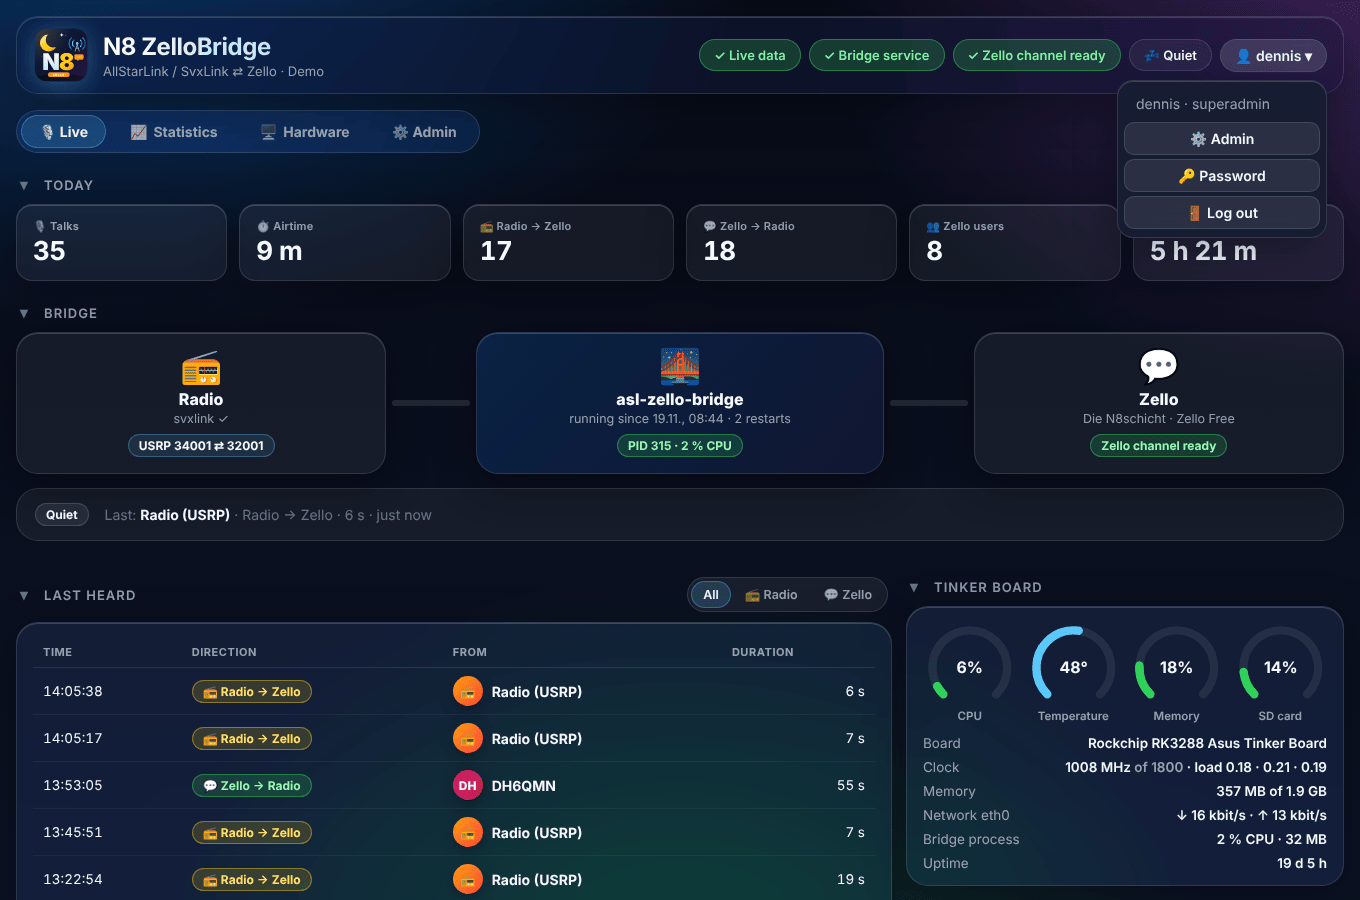
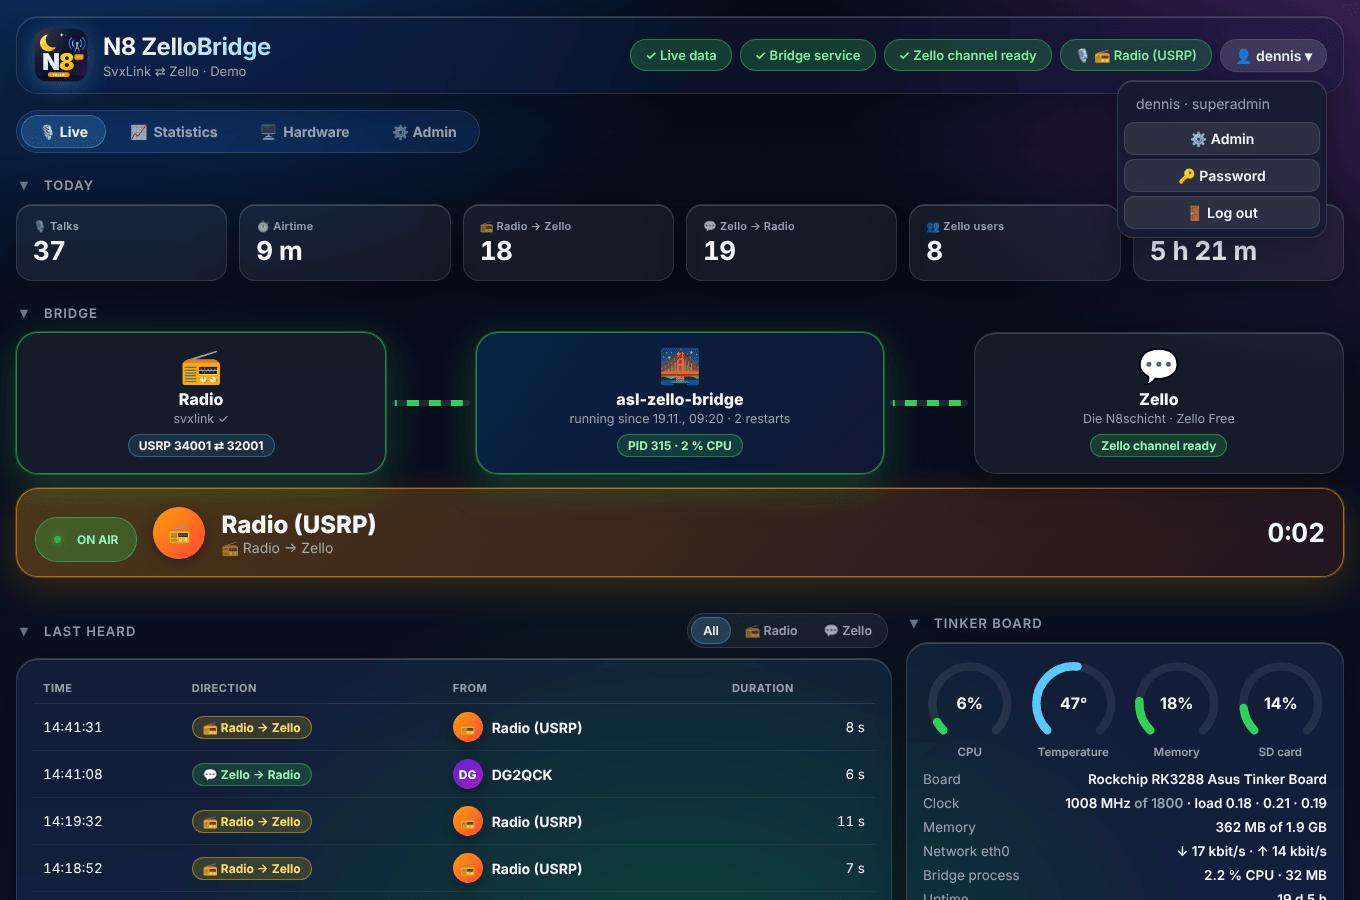
zellobridge: Asterisk/AllStarLink entfernt – nur SvxLink ⇄ Zello
- keine Suche mehr nach asterisk-/analog_bridge-/allmon-Diensten (Dashboard und Installer)
- Untertitel, Texte und Doku auf SvxLink ⇄ Zello umgestellt
- Screenshots neu

Claude-Session: https://claude.ai/code/session_01J5RG2ng91A3UchVF3CB2i8

diff --git a/zellobridge/static/app.js b/zellobridge/static/app.js
@@ -177,7 +177,7 @@ function renderFlow() {
     const L = S.live, b = L.bridge, sv = bridgeSvc(), c = L.config || {}, t = b.talk;
     const up = sv.active === 'active', zok = ['ready', 'online'].includes(b.zello);
     const extra = (L.services || []).filter(s => !s.bridge);
-    const radioSub = extra.length ? extra.map(s => `${esc(s.unit)} ${s.active === 'active' ? '✓' : '✕'}`).join(' · ') : 'AllStarLink / SvxLink';
+    const radioSub = extra.length ? extra.map(s => `${esc(s.unit)} ${s.active === 'active' ? '✓' : '✕'}`).join(' · ') : 'SvxLink';
     const z = ZST[b.zello] || ZST.unknown;
     $('flow').innerHTML = `
         <div class="node ${t && t.dir === 'rf' ? 'hot' : ''}"><div class="ic">📻</div><div class="t">Radio</div><div class="s">${radioSub}</div>

diff --git a/zellobridge/n8zello/settings.py b/zellobridge/n8zello/settings.py
@@ -36,14 +36,14 @@ SECTIONS = [
 
 FIELDS: List[Field] = [
     Field("dashboard.title", "dashboard", "Title", "text", "N8 ZelloBridge"),
-    Field("dashboard.subtitle", "dashboard", "Subtitle", "text", "AllStarLink / SvxLink ⇄ Zello"),
+    Field("dashboard.subtitle", "dashboard", "Subtitle", "text", "SvxLink ⇄ Zello"),
     Field("dashboard.public", "dashboard", "Public view", "bool", True, "On: everybody in the network sees the dashboard without login"),
     Field("dashboard.show_users", "dashboard", "Show Zello user names publicly", "bool", True),
     Field("dashboard.session_hours", "dashboard", "Login valid for (hours)", "int", 12, min=1, max=720),
     Field("bridge.service", "bridge", "Bridge service", "text", "asl-zello-bridge", "systemd unit of the bridge",
           pattern=r"[A-Za-z0-9@._-]+"),
     Field("bridge.extra", "bridge", "Further services", "text", "auto",
-          "Comma separated, e.g. svxlink, asterisk. auto = every svxlink/asterisk/usrp service found", pattern=r"[A-Za-z0-9@._, -]*"),
+          "Comma separated, e.g. svxlink. auto = every SvxLink/USRP service found", pattern=r"[A-Za-z0-9@._, -]*"),
     Field("bridge.iface", "bridge", "Network interface", "text", "auto", "For the traffic graph; auto = the one with the default route",
           pattern=r"[A-Za-z0-9._-]+"),
     Field("data.talk_days", "data", "Keep talks (days)", "int", 400, min=7, max=3650),

diff --git a/zellobridge/n8zello/system.py b/zellobridge/n8zello/system.py
@@ -211,7 +211,7 @@ class Services:
         for line in out.splitlines():
             name = line.split()[0] if line.split() else ""
             base = name.removesuffix(".service")
-            if base != bridge and any(k in base.lower() for k in ("svxlink", "asterisk", "usrp", "analog_bridge", "allmon")):
+            if base != bridge and any(k in base.lower() for k in ("svxlink", "usrp")):
                 found.append(base)
         return found[:6]
 
@@ -269,7 +269,7 @@ class Services:
                     "ActiveEnterTimestamp": started, "Description": "SvxLink repeater control software", "Environment": "",
                     "MemoryCurrent": "14200832", "UnitFileState": "enabled"}
         return {"Id": f"{unit}.service", "ActiveState": "active", "SubState": "running", "MainPID": "315", "NRestarts": "2",
-                "ActiveEnterTimestamp": started, "Description": "AllStarLink Zello Bridge", "MemoryCurrent": "35651584",
+                "ActiveEnterTimestamp": started, "Description": "SvxLink Zello Bridge", "MemoryCurrent": "35651584",
                 "UnitFileState": "enabled", "FragmentPath": "/etc/systemd/system/asl-zello-bridge.service",
                 "DropInPaths": "/etc/systemd/system/asl-zello-bridge.service.d/override.conf",
                 "Environment": 'USRP_BIND=127.0.0.1 USRP_HOST=127.0.0.1 USRP_RXPORT=34001 USRP_TXPORT=32001 ZELLO_USERNAME=n8schicht-bridge '

diff --git a/zellobridge/n8zello/bridge.py b/zellobridge/n8zello/bridge.py
@@ -2,7 +2,7 @@
 Live state of asl-zello-bridge (github.com/mattmelling/asl-zello-bridge), read from
 its systemd journal. The bridge logs every key-up and key-down:
 
-  INFO:ZelloController:Keyed:USRP              radio (AllStarLink/SvxLink via USRP) talks into Zello
+  INFO:ZelloController:Keyed:USRP              radio (SvxLink via USRP) talks into Zello
   INFO:ZelloController:UnKeyed:USRP (12.3s)
   INFO:ZelloController:Keyed:DL1ABC            a Zello user talks to the radio side
   INFO:ZelloController:UnKeyed:DL1ABC (8.0s)

diff --git a/zellobridge/readme.md b/zellobridge/readme.md
@@ -21,7 +21,7 @@
 
 ## Was ist das?
 
-Die **ZelloBridge** der N8schicht verbindet die Funkseite (SvxLink bzw. AllStarLink über USRP) mit einem Zello-Kanal. Sie läuft mit [asl-zello-bridge](https://github.com/mattmelling/asl-zello-bridge) von G4IYT auf einem **Asus Tinker Board** unter DietPi. Dieses Dashboard zeigt alles, was dort passiert:
+Die **ZelloBridge** der N8schicht verbindet die Funkseite (SvxLink über USRP) mit einem Zello-Kanal. Sie läuft mit [asl-zello-bridge](https://github.com/mattmelling/asl-zello-bridge) von G4IYT auf einem **Asus Tinker Board** unter DietPi. Dieses Dashboard zeigt alles, was dort passiert:
 
 | | |
 |---|---|

diff --git a/zellobridge/docs/de/adminbereich.md b/zellobridge/docs/de/adminbereich.md
@@ -34,7 +34,7 @@ Der Dienstbenutzer darf per sudoers-Regel genau diese Dienste steuern und nichts
 | Show Zello user names publicly | an | aus = ohne Login nur „Zello“ |
 | Login valid for | 12 h | |
 | Bridge service | asl-zello-bridge | systemd-Dienst der Bridge |
-| Further services | auto | `auto` = alle SvxLink-/Asterisk-/USRP-Dienste, sonst Liste |
+| Further services | auto | `auto` = alle SvxLink-/USRP-Dienste, sonst Liste |
 | Network interface | auto | für den Netzwerk-Verlauf |
 | Keep talks / events / hardware values | 400 / 60 / 31 Tage | |
 
